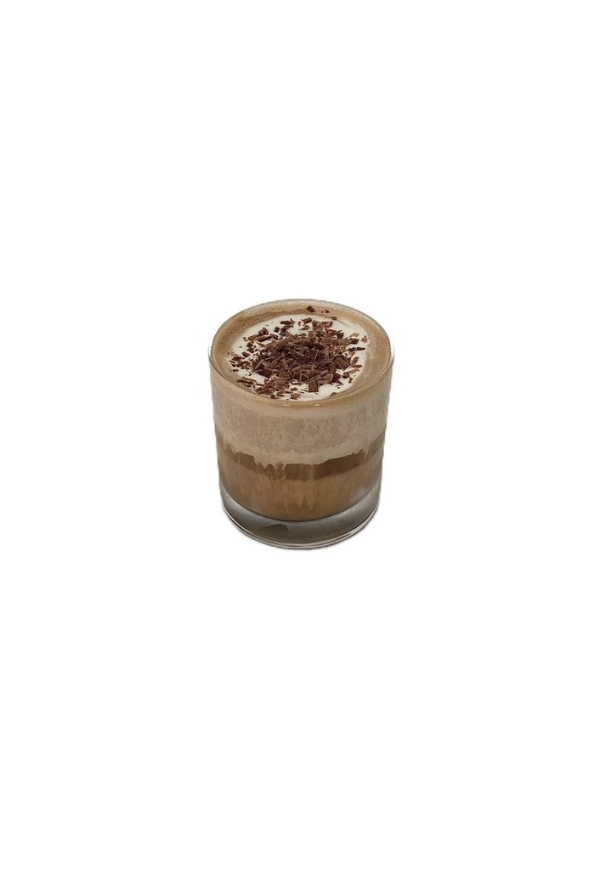
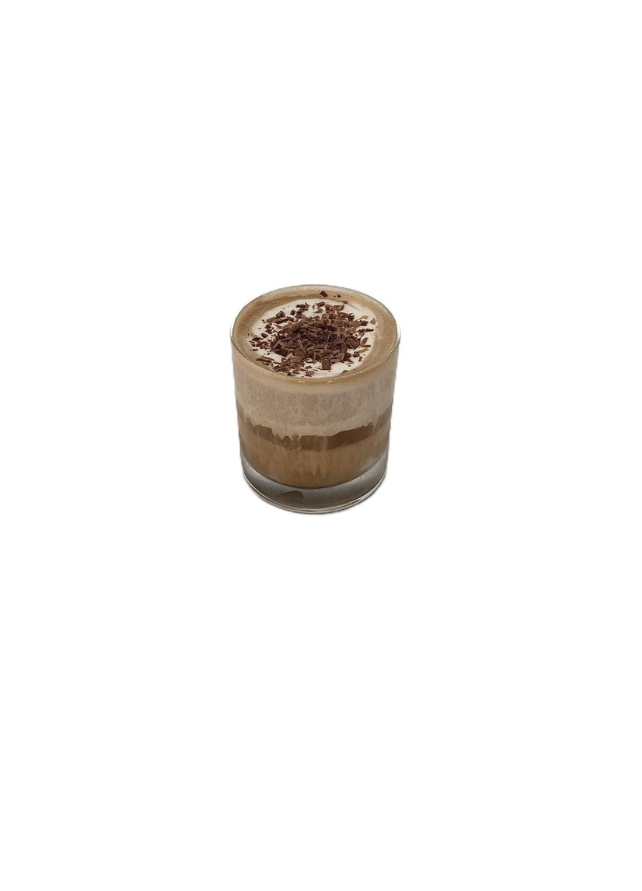
testing

Changed region(s): [[0.3393, 0.303, 0.6477, 0.6364]]

diff --git a/frontend/index.html b/frontend/index.html
@@ -146,7 +146,7 @@
                     <h3>Contact Us</h3>
                     <p></p>
                 </div>
-                <p><i class="fa-solid fa-phone"></i> Phone: <span class="phone-nr">+46 123 456 789</span></p> 
+                <p><i class="fa-solid fa-phone"></i> Phone: <span class="phone-nr"> 0723456789</span></p> 
                 <p><i class="fa-solid fa-envelope"></i>Email: latteavenue@gmail.com</p>
             </div>
 

diff --git a/frontend/css/responsive.css b/frontend/css/responsive.css
@@ -1239,9 +1239,9 @@
 /*---------------------------------------------------------------------------------*/
 
 /*EXTRA BIG SCREEN*/
-@media (min-width: 1700px){  
+@media (min-width: 2000px){  
     .container {
-        max-width: 1650px;  
+        max-width: 1950px;  
     }
     
     body {
